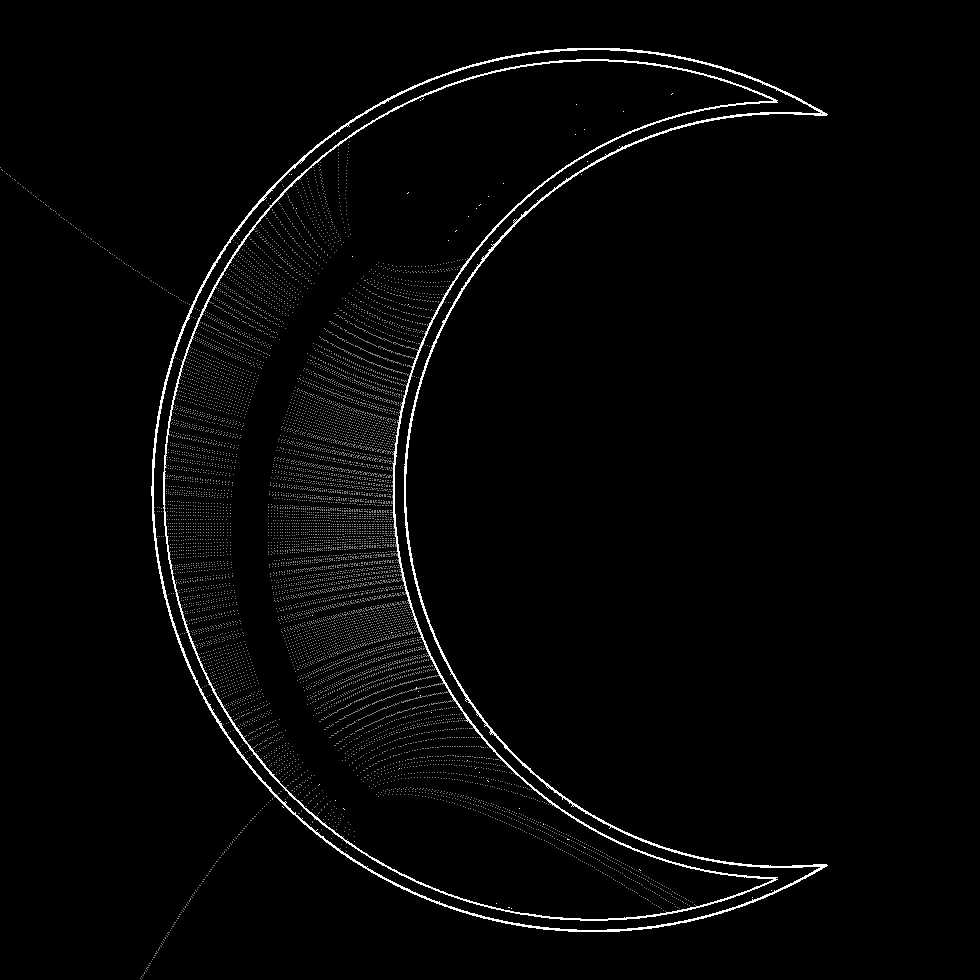
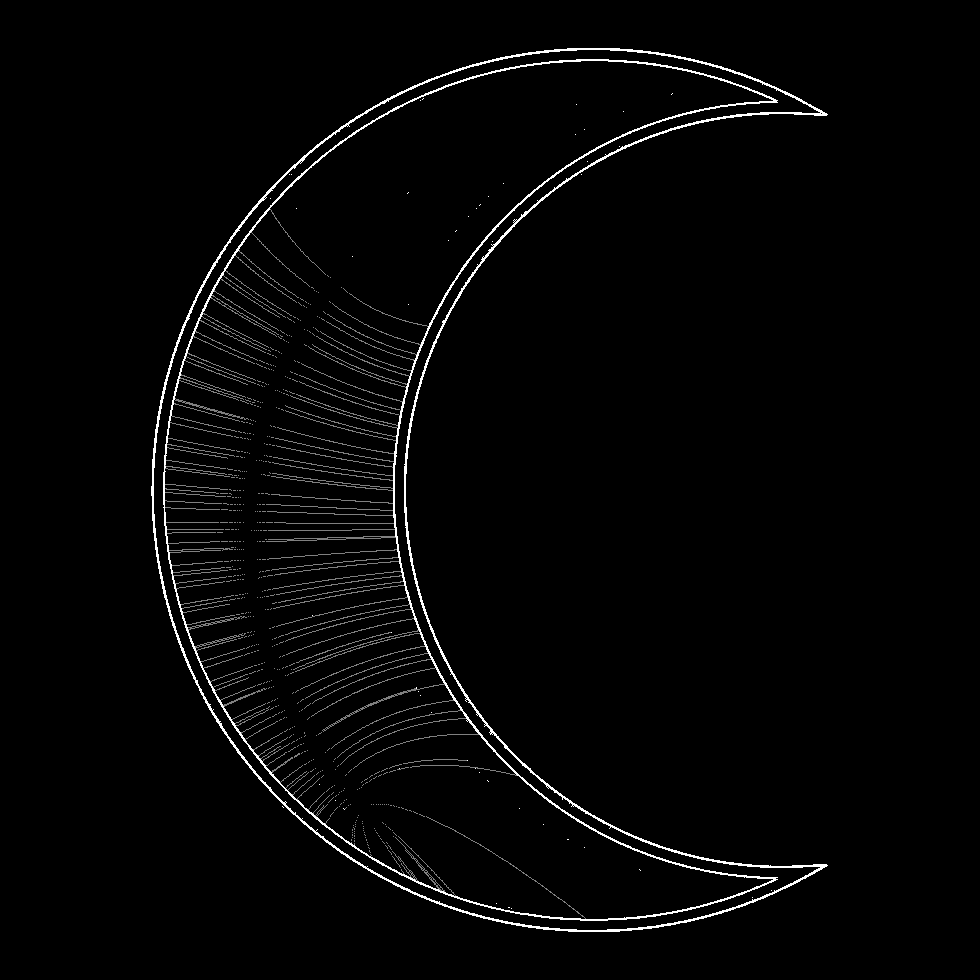
optimisation des paramètres et correction oublie ()

diff --git a/test_intersect_python/d2_v2.py b/test_intersect_python/d2_v2.py
@@ -1,0 +1,81 @@
+from math import sqrt, atan
+
+def clamp(x : float, m : float, M : float) -> float:
+    if x < m:
+        return m
+    if x > M:
+        return M
+    return x
+
+def dot(a : tuple, b : tuple) -> float:
+    return a[0] * b[0] + a[1] * b[1] 
+
+def length(x : tuple) -> float:
+    return sqrt(dot(x, x))
+
+def d2(X : tuple, stroke : list, sqrtA : float) -> float:
+    integral = 0.
+    for i in range(1, len(stroke)):
+        x0 = stroke[i-1]
+        d0 = (x0[0] - X[0], x0[1] - X[1])
+        dir = (stroke[i][0] - x0[0], stroke[i][1] - x0[1])
+        dist = length(dir)
+        x1 = (dir[0]/dist, dir[1]/dist)
+        # norm2(d0 + t*x1) = np.dot(d0 + t*x1, d0 + t*x1)
+        c = dot(d0, d0)
+        b = dot(x1, d0) * 2
+        a = dot(x1, x1)
+        u = b / (2*a)
+        v = c - a*u*u # (4*a*c - b*b)/(4*a)
+        if v <= 1e-4:
+            # v = 0: dir == +-d0, X is colinear with the edge
+            if -dist-1e-4 <= u <= 1e-4: # X is inside the edge
+                return 0.
+            else: # X is outside the edge
+                primitive = lambda t: -1./(a*(t+u))
+        else:
+            invsqrtav = 1./sqrt(a*v)
+            primitive = lambda t: atan((t+u)*invsqrtav*a)*invsqrtav
+        integral += primitive(dist) - primitive(0)
+    return sqrtA * integral**(-1./2)
+
+def d2grad(x : tuple, stroke : list, sqrtA : float) -> tuple:
+    dx = 5.0
+    d2here : float = d2(x, stroke, sqrtA)
+    right : tuple = (x[0] + dx, x[1])
+    down : tuple = (x[0], x[1] + dx)
+    res : tuple = ((d2(right, stroke, sqrtA) - d2here) / dx, (d2(down, stroke, sqrtA) - d2here) / dx)
+    return res
+
+# À appeler une fois au début de l'algo, puis utiliser son résultat en dernier argument de d2grad
+def getSqrtA(stroke : list) -> float:
+    return sqrt(sum([length((stroke[i][0] - stroke[i - 1][0], stroke[i][1] - stroke[i - 1][1])) for i in range(1, len(stroke))]))
+
+def equilibreRibs(threshold : float, ribs : list):
+    for i in range(1, len(ribs) - 1):
+        (beg_x, beg_y), (end_x, end_y) = ribs[i]
+        l = length((end_x - beg_x, end_y - beg_y))
+        if l> threshold:
+            lbef = length((ribs[i - 1][1][0] - ribs[i - 1][0][0], ribs[i - 1][1][1] - ribs[i - 1][0][1]))
+            laft = length((ribs[i + 1][1][0] - ribs[i + 1][0][0], ribs[i + 1][1][1] - ribs[i + 1][0][1]))
+            lnew = (lbef + laft) / 2
+            ribs[i] = (ribs[i][0], (beg_x + lnew * (end_x - beg_x) / l, beg_y + lnew * (end_y - beg_y) / l))
+
+# from math import sin, cos
+# from PIL import Image
+
+# def testd2():
+#     stroke = [(400 + 300 * cos(theta * 3.14159 / 180), 400 + 300 * sin(theta * 3.14159 / 180)) for theta in range(0, 300, 20)]
+#     # stroke = [(x, 400) for x in range(200, 600, 50)]
+#     img = Image.new(mode="RGB", size=(800, 800))
+#     pixels = img.load()
+
+#     sqrtA = getSqrtA(stroke)
+
+#     for y in range(800):
+#         for x in range(800):
+#             pixels[x, y] = (int(255 * abs(sin(0.2 * d2grad((x, y), stroke, sqrtA)[0]))), 0, 0)
+
+#     img.show()
+
+# testd2()

diff --git a/test_intersect_python/d2_v1.py b/test_intersect_python/d2_v1.py
@@ -1,0 +1,48 @@
+from math import sqrt
+
+def clamp(x : float, m : float, M : float) -> float:
+    if x < m:
+        return m
+    if x > M:
+        return M
+    return x
+
+def dot(a : tuple, b : tuple) -> float:
+    return a[0] * b[0] + a[1] * b[1] 
+
+def length(x : tuple) -> float:
+    return sqrt(dot(x, x))
+
+def mix(a : float, b : float, t : float) -> float:
+    return a * (1.0 - t) + b * t
+
+def sdfSegment(p : tuple, a : tuple, b : tuple) -> float:
+    ba = b[0] - a[0], b[1] - a[1]
+    pa = p[0] - a[0], p[1] - a[1]
+
+    if dot(ba,ba)==0:
+        return(length((p[0]-a[0],p[1]-a[1])))
+
+    h = clamp(dot(pa, ba) / dot(ba, ba), 0.0, 1.0)
+    return length((pa[0] - ba[0] * h, pa[1] - ba[1] * h))
+
+def smin(a : float, b : float, k : float) -> float:
+    h = clamp(0.5 + 0.5 * (a - b) / k, 0.0, 1.0)
+    return mix(a, b, h) - k * h * (1.0 - h)
+
+def d2(x : tuple, stroke : list) -> float:
+    k = 32.0
+    locMin = 9876543210.0
+    for p_i in range(len(stroke) - 1):
+        d = sdfSegment(x, stroke[p_i], stroke[p_i + 1])
+        locMin = smin(locMin, d, k)
+    return locMin
+
+def d2grad(x : tuple, stroke : list) -> tuple:
+    dx = 5.0
+    d2here : float = d2(x, stroke)
+    right : tuple = (x[0] + dx, x[1])
+    down : tuple = (x[0], x[1] + dx)
+    res : tuple = ((d2(right, stroke) - d2here) / dx, (d2(down, stroke) - d2here) / dx)
+    l : float = length(res)
+    return (res[0] / l, res[1] / l)

diff --git a/test_intersect_python/intersect.py b/test_intersect_python/intersect.py
@@ -13,7 +13,7 @@ def generate_points(p1, p2, nb_points, d, stroke):
     direction = ((p2[0] - p1[0]) / total_length, (p2[1] - p1[1]) / total_length)
 
     for i in range(nb_points):
-        stroke.append(p1[0] + direction[0] * d * (i + 1), p1[1] + direction[1] * d * (i + 1))
+        stroke.append((p1[0] + direction[0] * d * (i + 1), p1[1] + direction[1] * d * (i + 1)))
 
 def contour_detection(path_image): 
     img = Image.open(path_image).convert("L")
@@ -60,9 +60,9 @@ def intersect(path_image, path_stroke, type):
     pixels = edges.load()
 
     ribs = []
-    alpha = 2.0
-    correction = 10.0
-    dmax = 10 
+    alpha = 0.7
+    correction = 0.5
+    dmax = 30
 
     if type == 0 : 
         stroke_arranged = []
@@ -142,4 +142,4 @@ def intersect(path_image, path_stroke, type):
 
     return len(ribs)
 
-intersect("image.jpg","arc_stroke.txt",1)
+intersect("image.jpg","arc_stroke.txt",0)

diff --git a/blender_addon/intersect.py b/blender_addon/intersect.py
@@ -11,7 +11,7 @@ def generate_points(p1 : tuple, p2 : tuple , nb_points : int, d : int, stroke : 
     direction = ((p2[0] - p1[0]) / total_length, (p2[1] - p1[1]) / total_length)
 
     for i in range(nb_points):
-        stroke.append(p1[0] + direction[0] * d * (i + 1), p1[1] + direction[1] * d * (i + 1))
+        stroke.append((p1[0] + direction[0] * d * (i + 1), p1[1] + direction[1] * d * (i + 1)))
 
 def point_in_poly(x: int, y: int, poly: list[tuple]) -> bool:
     """

diff --git a/test_intersect_python/arc_stroking.py b/test_intersect_python/arc_stroking.py
@@ -10,7 +10,7 @@ start_angle = 3 * math.pi / 4   # ≈ 135°, en haut à gauche
 end_angle = 5 * math.pi / 4     # ≈ 225°, en bas à gauche
 
 # Nombre de points
-num_points = 200
+num_points = 10
 
 with open("arc_stroke.txt", "w") as f:
     for i in range(num_points):
